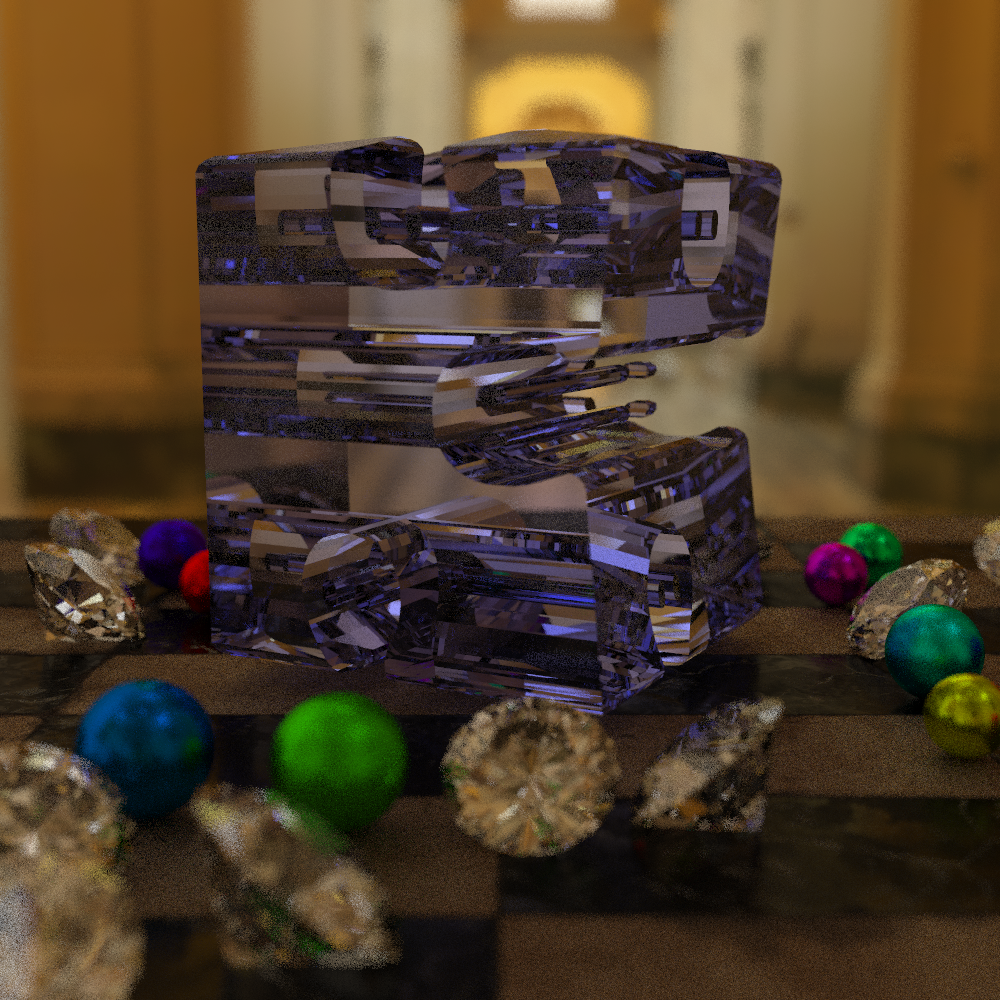
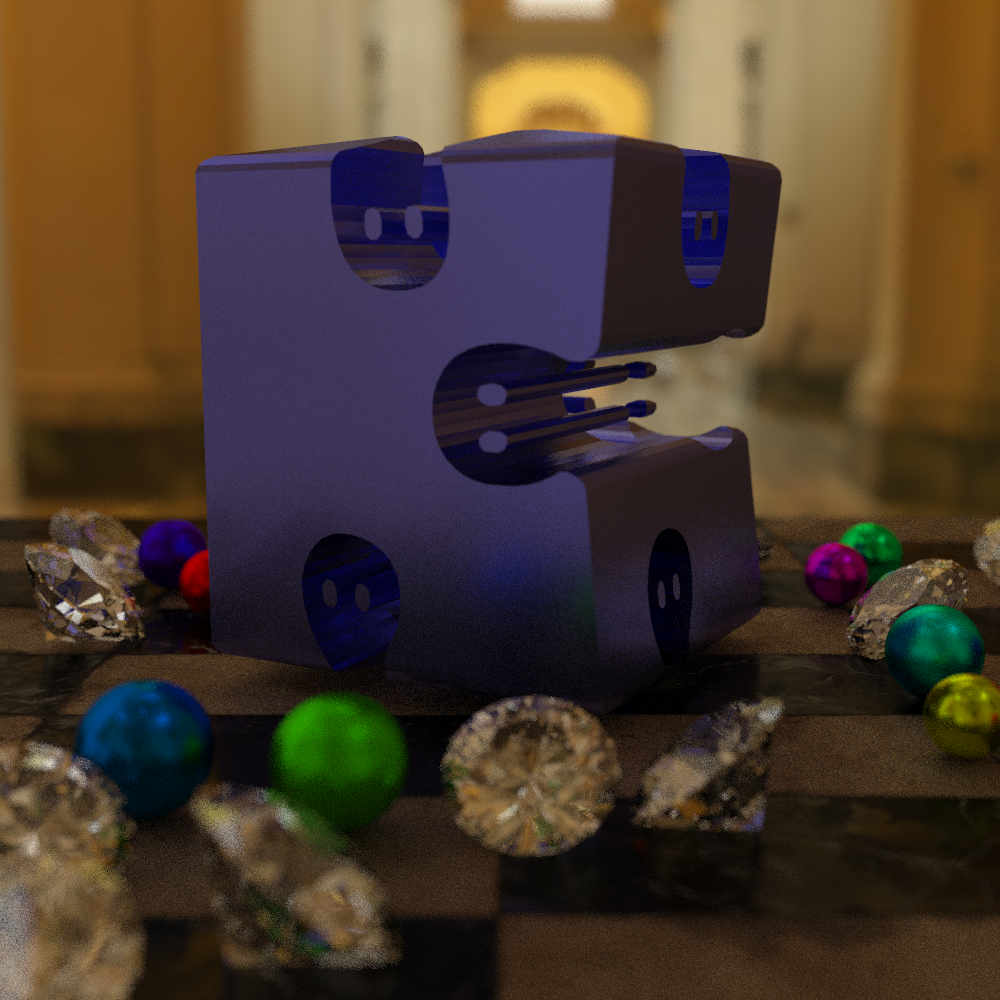
metal

diff --git a/src/main.rs b/src/main.rs
@@ -425,11 +425,17 @@ fn init_scene_tbf3() -> (Camera, Scene) {
             Box::new(BvhMesh::from_mesh(ObjLoader::load(
                 "models/klab_logo/klab_logo_triangle.obj",
                 Matrix44::scale_linear(0.5) * Matrix44::translate(0.0, 3.1782, 0.0) * Matrix44::rotate_y(-0.5),
-                Material {
+                /*Material {
                     surface: SurfaceType::Refraction { refractive_index: 1.5 },
                     albedo: Texture::from_color(Color::new(0.7, 0.7, 1.0)),
                     emission: Texture::black(),
                     roughness: Texture::from_color(Color::from_one(0.1)),
+                },*/
+                Material {
+                    surface: SurfaceType::GGX,
+                    albedo: Texture::from_color(Color::new(0.4, 0.4, 1.0)),
+                    emission: Texture::black(),
+                    roughness: Texture::from_color(Color::from_one(0.05)),
                 },
             ))),
             // 背後にある地図ガラス
